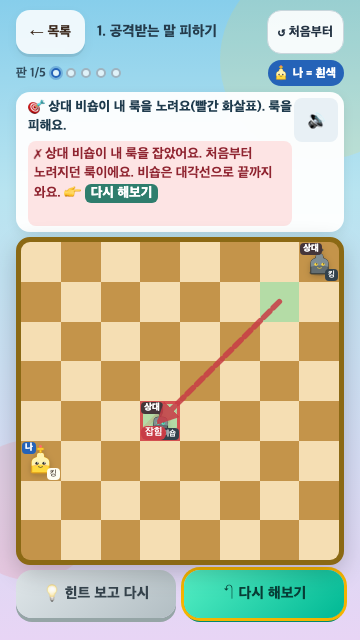
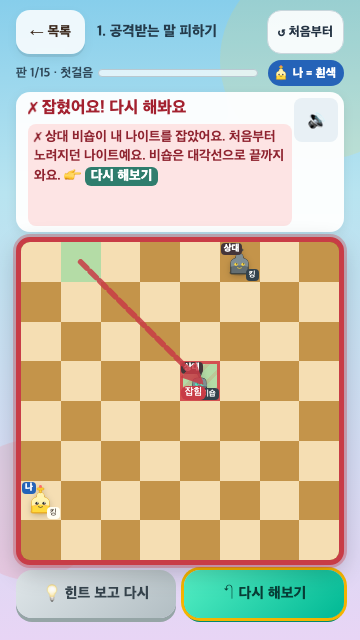
docs: 체스 수업 45판 단계 정의·판 목록·검증 기록, 빌드 2026.11.07.4

diff --git a/js/version.js b/js/version.js
@@ -1,1 +1,1 @@
-globalThis.CHESS_BUILD = '2026.11.07.3';
+globalThis.CHESS_BUILD = '2026.11.07.4';

diff --git a/README.md b/README.md
@@ -15,7 +15,7 @@ npm run dev
 - **홈:** `체스 대전` / `기사의 여행 · 나이트 투어` / `체스 처음 배우기`로 한 번에 들어갑니다. 다른 놀이는 `놀이터 · 전체 놀이`와 `모험 지도`에서 그대로 제공합니다.
 - **대전:** [컴퓨터 10단계](docs/AI_DIFFICULTY.md)·같은 기기에서 함께 두기(마주 보기·한 수 시간)·말이 적은 짧은 판. 끝난 판의 설정 그대로 `같은 상대와 다시 두기`, 컴퓨터를 이기면 고를 수 있는 `다음 단계 도전`. [배운 말로 첫 대전](docs/STARTER_BATTLES.md) 4판(룩·비숍·나이트·퀸)과 대국 중 `말 움직임 보기`. 난이도 `!` 설명 표, 체크·캐슬링·승패의 명확한 알림, 체크 공격선과 실제 대응 방법, 힌트·시범·되돌리기, 캐슬링·앙파상·승격 선택.
 - **기사의 여행 · 나이트 투어:** 산책·10칸 탐험·5/6/7 크기 완주, 갈림길 알림·전체 경로/다음 한 수 힌트, 무작위 시작, 가족과 번갈아 두기. 무료 [규칙 문제 10판](docs/KNIGHT_RULE_PUZZLES.md): 일부 칸이 없는 판 5판, 순서 표식 5판.
-- **체스 수업:** 무료 `내 말 지키기` 3수업 × 5판(공격받는 말 피하기 · 잡을 때도 조심하기 · 내 말 모두 지키기). 판마다 목표 한 줄을 보고 직접 한 수를 두면, 위험한 수는 상대가 실제로 잡고 이유를 한 문장으로 알려줘요. 상대 말을 누르면 갈 수 있는 칸, 힌트 2단계, 수업별 이어하기, 수업 배치로 대전. [v2 재설계](docs/lessons/LESSON_REDESIGN_V2.md) · [구현 기록](docs/lessons/IMPLEMENTATION_PROGRESS.md)
+- **체스 수업:** 무료 `내 말 지키기` 3수업 × 15판 = 45판(공격받는 말 피하기 · 잡을 때도 조심하기 · 내 말 모두 지키기). 수업마다 첫걸음 → 쉬움 → 보통 → 어려움 → 도전 순서로 어려워지고, 판이 끝나면 성공·실패를 크게 알려줘요. 판마다 목표 한 줄을 보고 직접 한 수를 두면, 위험한 수는 상대가 실제로 잡고 이유를 한 문장으로 알려줘요. 상대 말을 누르면 갈 수 있는 칸, 힌트 2단계, 수업별 이어하기, 수업 배치로 대전. [v2 재설계](docs/lessons/LESSON_REDESIGN_V2.md) · [구현 기록](docs/lessons/IMPLEMENTATION_PROGRESS.md)
 - **체스 처음 배우기(모험):** 4×4·5×5 룩 입문부터 여섯 말의 이동·잡기·안전 학습. 실패 설명, 한 수 도움, 되돌리기.
 - **놀이터:** 성 지키기, 왕과 깃발 찾기, 별 수집, 선택형 이동 수 도전, 한 수 발견, 나이트 투어.
 - **이어서 놀기:** 추가·수정할 수 있는 로컬 프로필, 콘텐츠 종류별 최근 판, 새로고침 후 복원, 기존 별 보존, 프로필 파일 백업. 나이트는 같은 시작판을 다른 프로필에 넘길 수 있습니다.

diff --git a/docs/DEVELOPMENT_HANDOFF.md b/docs/DEVELOPMENT_HANDOFF.md
@@ -262,4 +262,5 @@ A-1 홈 직접 진입 (`js/app-home.js`, `js/app-session.js`, `js/app-play.js`, 
 - 저장: 세션·백업 v5(수업 자료나 수업 배치 대전이 있을 때만). 예전 앱은 v5 파일을 거절하고, 새 앱은 v1~v4를 계속 읽는다.
 - 첫 사용자 확인 뒤 수정(빌드 `2026.11.07.2`): 내 편이 어느 색인지, 무엇을 눌러야 하는지, 처음부터 다시 하는 방법을 알 수 없다는 피드백을 반영했다. 우리=흰색 표시·말마다 우리/상대 표시, 단계마다 `👉 지금 누를 것`, 새 수업 소개 창, `↺ 처음부터`, 홈 버전 글자색을 고쳤다. 자세한 내용은 [구현 기록 §6](lessons/IMPLEMENTATION_PROGRESS.md).
 - v2 재설계(빌드 `2026.11.07.3`): 2차 수정 뒤에도 진행이 어색하다는 피드백에 따라 방향부터 검토했다(리체스 학습·듀오링고 체스 비교). 수업을 "직접 한 수 두고, 위험하면 상대가 실제로 잡고, 한 문장으로 이유를 설명"하는 3수업 × 5판으로 다시 만들었다. [v2 재설계](lessons/LESSON_REDESIGN_V2.md).
-- 다음 후보: v2 실기기 확인(재설계 문서 §7의 10초 기준)과 명세 §11 관찰, 체스 지도자 검수(기록 §5). 관찰 근거 없이 유료 과정·가격 실험을 시작하지 않는다.
+- v3(빌드 `2026.11.07.4`): 성공·실패를 목표 칸·판 테두리·클리어 막대로 분명히 표시했다. 판은 3수업 × 5단계 × 3판 = 45판이다. 생성기(`scripts/generate-lesson-levels.cjs`)가 난이도 점수가 오르도록 만든다.
+- 다음 후보: v3 실기기 확인(재설계 문서 §8)과 명세 §11 관찰, 체스 지도자 검수(기록 §5). 관찰 근거 없이 유료 과정·가격 실험을 시작하지 않는다.

diff --git a/docs/lessons/IMPLEMENTATION_PROGRESS.md b/docs/lessons/IMPLEMENTATION_PROGRESS.md
@@ -216,3 +216,12 @@
 - 360×640에서 15판 모든 상태의 문구 넘침 없음.
 
 자세한 내용은 [v2 재설계](LESSON_REDESIGN_V2.md)에 있다.
+
+## 9. v3: 45판·단계·성공 표시 · 빌드 `2026.11.07.4`
+
+사용자 요청: 성공을 분명히 보여 줄 것, 난이도를 점진적으로 높일 것, 판 수를 크게 늘릴 것.
+- 판이 끝나면 목표 칸이 `🎉 판 n 성공! · n/15 클리어` 또는 `✗ 잡혔어요! 다시 해봐요`로 바뀌고, 판 테두리 색과 클리어 막대가 함께 바뀐다.
+- 판은 수업마다 5단계 × 3판 = 15판, 모두 45판이다. 생성기(`scripts/generate-lesson-levels.cjs`, 시드 고정)가 단계 조건으로 만들고, 난이도 점수가 판 번호를 따라 줄지 않게 고른다.
+- 교재 버전을 3으로, 수업 ID를 `*-v3`로 올렸다. v2(5판) 진행 기록은 v1처럼 오류 없이 버린다.
+- 검증: `npm test` 135/135, `npm run test:browser` 15개 묶음 통과. 수업 브라우저 검사는 360×640에서 45판 모두 실패·성공 표시를 실제 탭으로 거친다.
+- 자세한 내용(단계 정의, 45판 표)은 [재설계 문서](LESSON_REDESIGN_V2.md) §1-1·§3에 있다.
